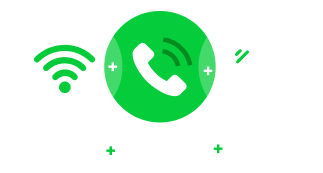
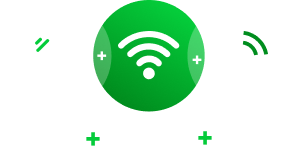
Atualização básica do nome do Beneficios

diff --git a/linktree/src/components/plans/benefits.js b/linktree/src/components/plans/benefits.js
@@ -36,7 +36,7 @@ function Benefits(props) {
       </div>
 
       <div id="canais">
-        <h2 className="tittle-benefits-2">Canais</h2>
+        <h2 className="tittle-benefits-2">De um Hayp na sua Tv</h2>
         <div className="divisor"></div>
 
         <h5 className="tittle-benefits-1">Canais abertos</h5>
@@ -75,8 +75,8 @@ function Benefits(props) {
       </div>
 
       <div>
-        <h5 className="tittle-benefits-2">Alô, <br /> quem fala?</h5>
-        <img src={require('./img/combo-telefone.png')} alt='Canal Globo' />
+        <h5 className="tittle-benefits-2">Combo <br /> completo <span>!!!</span></h5>
+        <img src={require('./img/combo-telefone.png')} alt='Combo completo' />
 
         <p>Fale a vontade</p>
 
